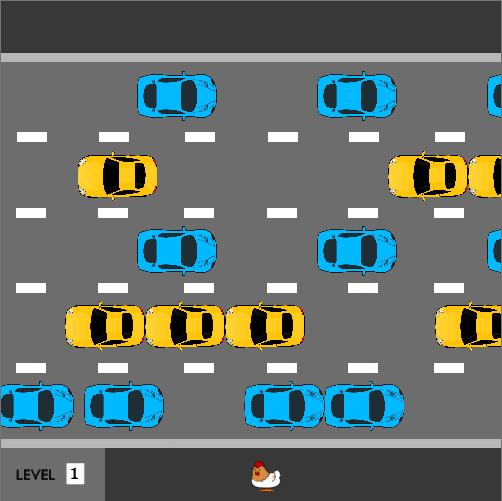
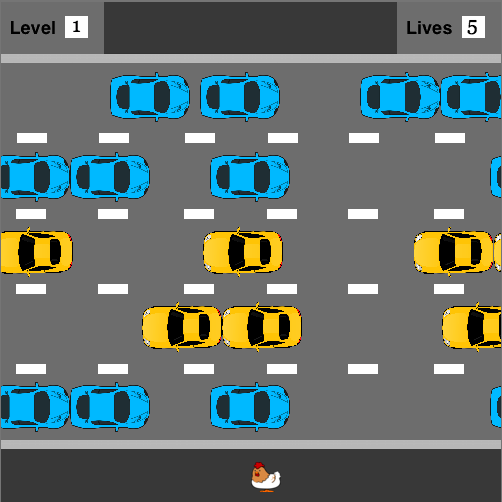
edit README

diff --git a/README.MD b/README.MD
@@ -22,7 +22,8 @@ Using arrow keys:
 #### Difficulty
 
 Game difficulty and car speed increases as the player help the chicken successfully across the road.
-The current game level is displayed at the bottom left of the screen
+- The current game level is displayed at the bottom left corner of the screen.
+- As well as the lives of the chicken is also displayed on the top right corner
 
 ![landing_page](docs/level.png)
 
